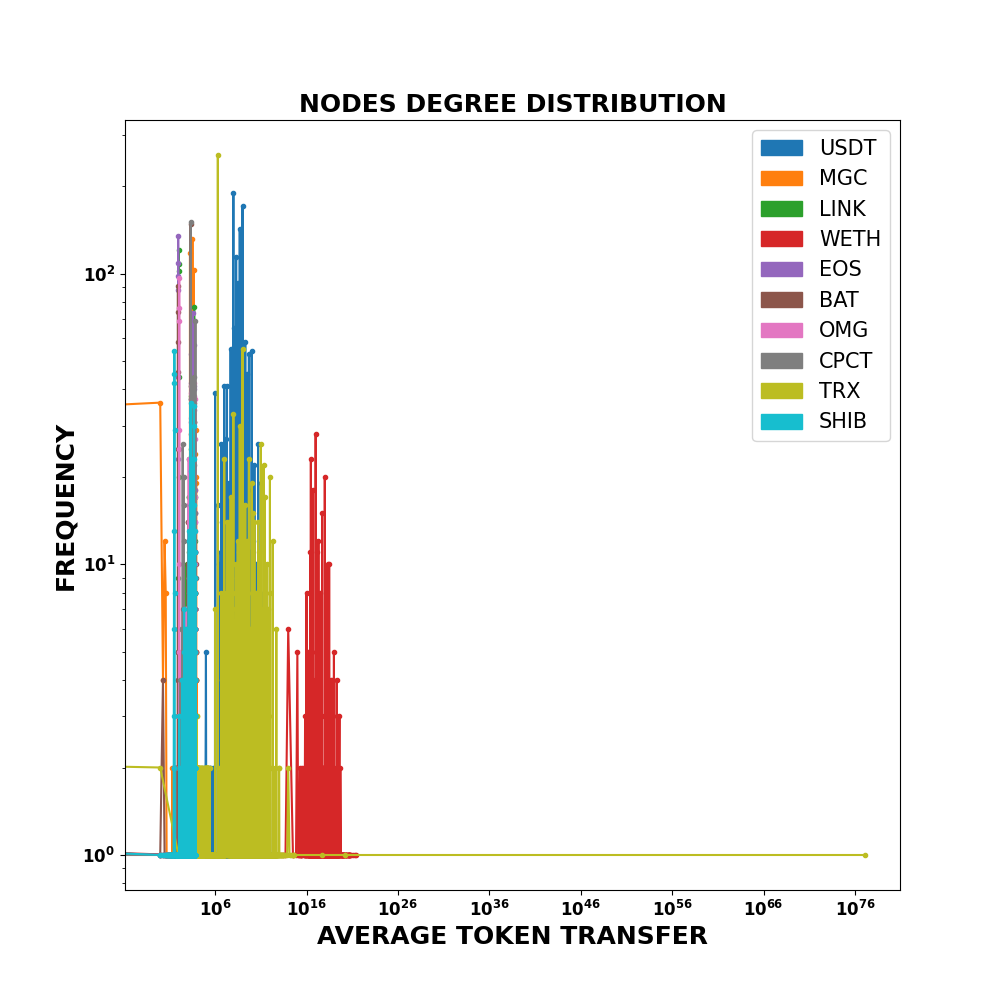
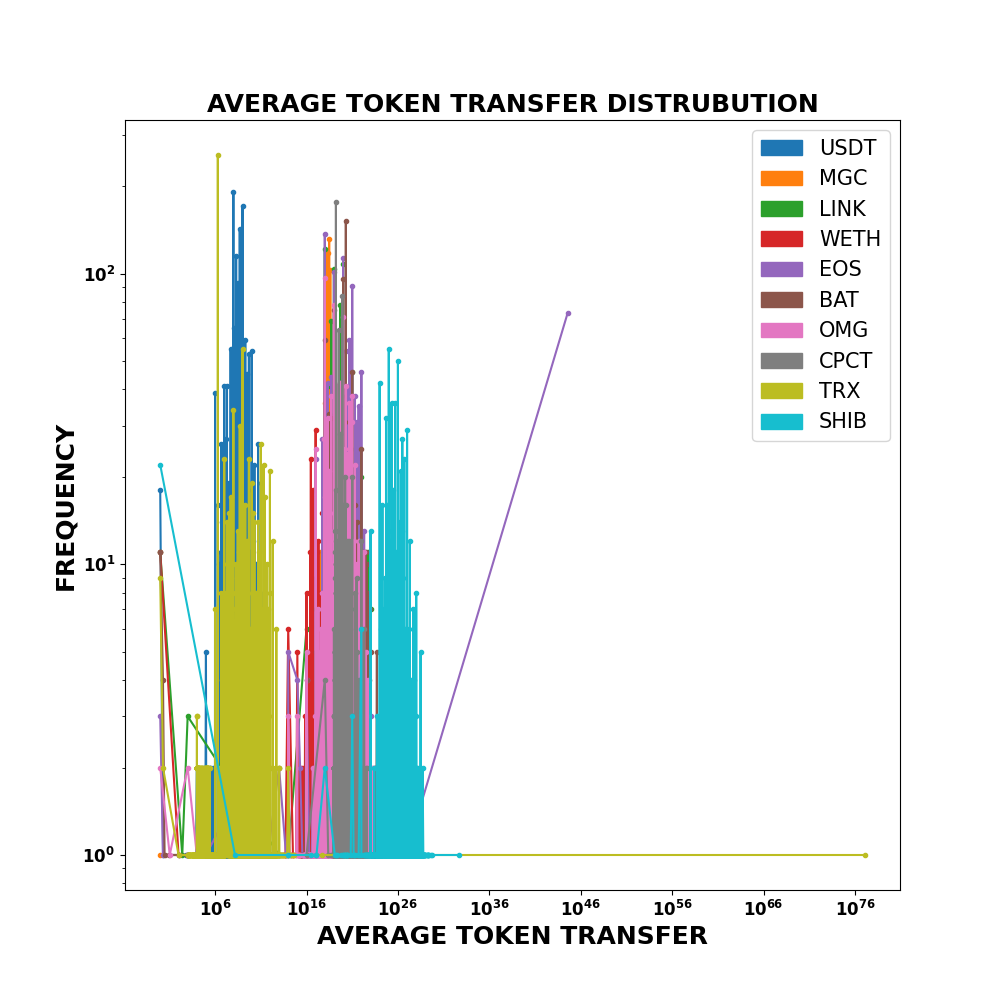
distr pesi grafo

diff --git a/distr_val.py b/distr_val.py
@@ -1,27 +1,53 @@
+from numpy import longlong
 import pandas as pd
 import matplotlib.pyplot as plt
 import matplotlib.patches as mpatches
 import matplotlib.colors as mcolors
+from operator import itemgetter
+import numpy as np
+from decimal import Decimal
 
 cname = {1:"USDT", 2:"MGC", 3:"LINK", 4:"WETH", 5:"EOS", 6:"BAT", 7:"OMG", 8:"CPCT", 9:"TRX", 10:"SHIB"}
 list_patch = []
 ax = None
 
+weight = 'val_avg' #CAMBIA PER CALCOLARE LA DISTRIBUZIONE DI WEIGHT DIVERSI  
 
-for color,n in zip(mcolors.TABLEAU_COLORS,range(1,11)):    
+for color,n in zip(mcolors.TABLEAU_COLORS,range(1,11)):
     fname = './trx_contract/trx_contract_'+str(n)+'.csv'
+
+    #CREO DATAFRAME E CONVERTO IN NUMERI RAPPRESENTABILI
     df = pd.read_csv(fname)
+    df[weight] = ['%E' % Decimal(v) for v in df[weight]]
+    df[weight]=df[weight].astype('float64')
     print(df)
-    dfg = df.groupby(['val_avg']).size().reset_index(name='counts')
-    #print(dfg['val_max'].tolist())
-    #print(dfg.dtypes)
-    #dfg.astype('int64')
-    #print(dfg.dtypes)
-    #dfg['val_avg'] = dfg['val_avg'] + 1
+    print(df.dtypes)
+
+    #CALCOLO LE OCCORRENZE    
+    dfg = df.groupby([weight]).size().reset_index(name='counts')
     print(dfg)
-    #print(dfg['counts'].tolist())
-    ax = dfg.plot (x='val_avg',ax=ax, marker='.')
-    #plt.plot(dfg['val_max'].tolist(), dfg['counts'].tolist())
+    print(dfg.dtypes)
+    
+    #NORMALIZZO MINMAX LA MISURA WEIGHT
+    #scaler = MinMaxScaler()
+    #dfg = pd.DataFrame(scaler.fit_transform(dfg),columns=['degree','counts'])
+    #dfg[weight] = (dfg[weight] - dfg[weight].min()) / (dfg[weight].max() - dfg[weight].min())
+    #print(dfg)
+
+    #CALCOLO LE FREQUENZE NORMALIZZATE CON CDF
+    #pdf
+    dfg['pdf'] = dfg['counts'] / sum(dfg['counts'])
+    #cdf
+    dfg['cdf'] = dfg['pdf'].cumsum()
+    dfg = dfg.reset_index()
+
+    #TRASLO LE MISURE SULL'ASSE X DI UNO A DESTRA PER POTER RAPPRESENTARE LO 0 IN LOGSCALE (0 -> 1)
+    dfg[weight] = dfg[weight] + np.float64('%E' % Decimal('1'))
+    print(dfg)
+
+    #PLOTTO IL DATAFRAME ELABORATO
+    ax = dfg.plot (x=weight,y='counts',ax=ax, marker='.')
+
     patch = mpatches.Patch(color=color, label=cname[n])
     list_patch.append(patch)
 
@@ -33,7 +59,10 @@ f.set_figwidth(10)
 plt.xticks(fontsize=12,weight='bold')
 plt.yticks(fontsize=12,weight='bold')
 plt.ylabel('FREQUENCY', fontsize=18,weight='bold')
-plt.xlabel('AVERAGE TOKEN TRANSFER',fontsize=18,weight='bold')
-plt.title('NODES DEGREE DISTRIBUTION',fontsize=18,weight='bold')
 plt.legend(fontsize=15,handles=list_patch)    
+
+#CAMBIA IN BASE A WEIGHT
+plt.xlabel('AVERAGE TOKEN TRANSFER',fontsize=18,weight='bold') 
+plt.title('AVERAGE TOKEN TRANSFER DISTRUBUTION',fontsize=18,weight='bold')
 plt.savefig('./risultati_analisi/distr_avgtoken.png')
+
